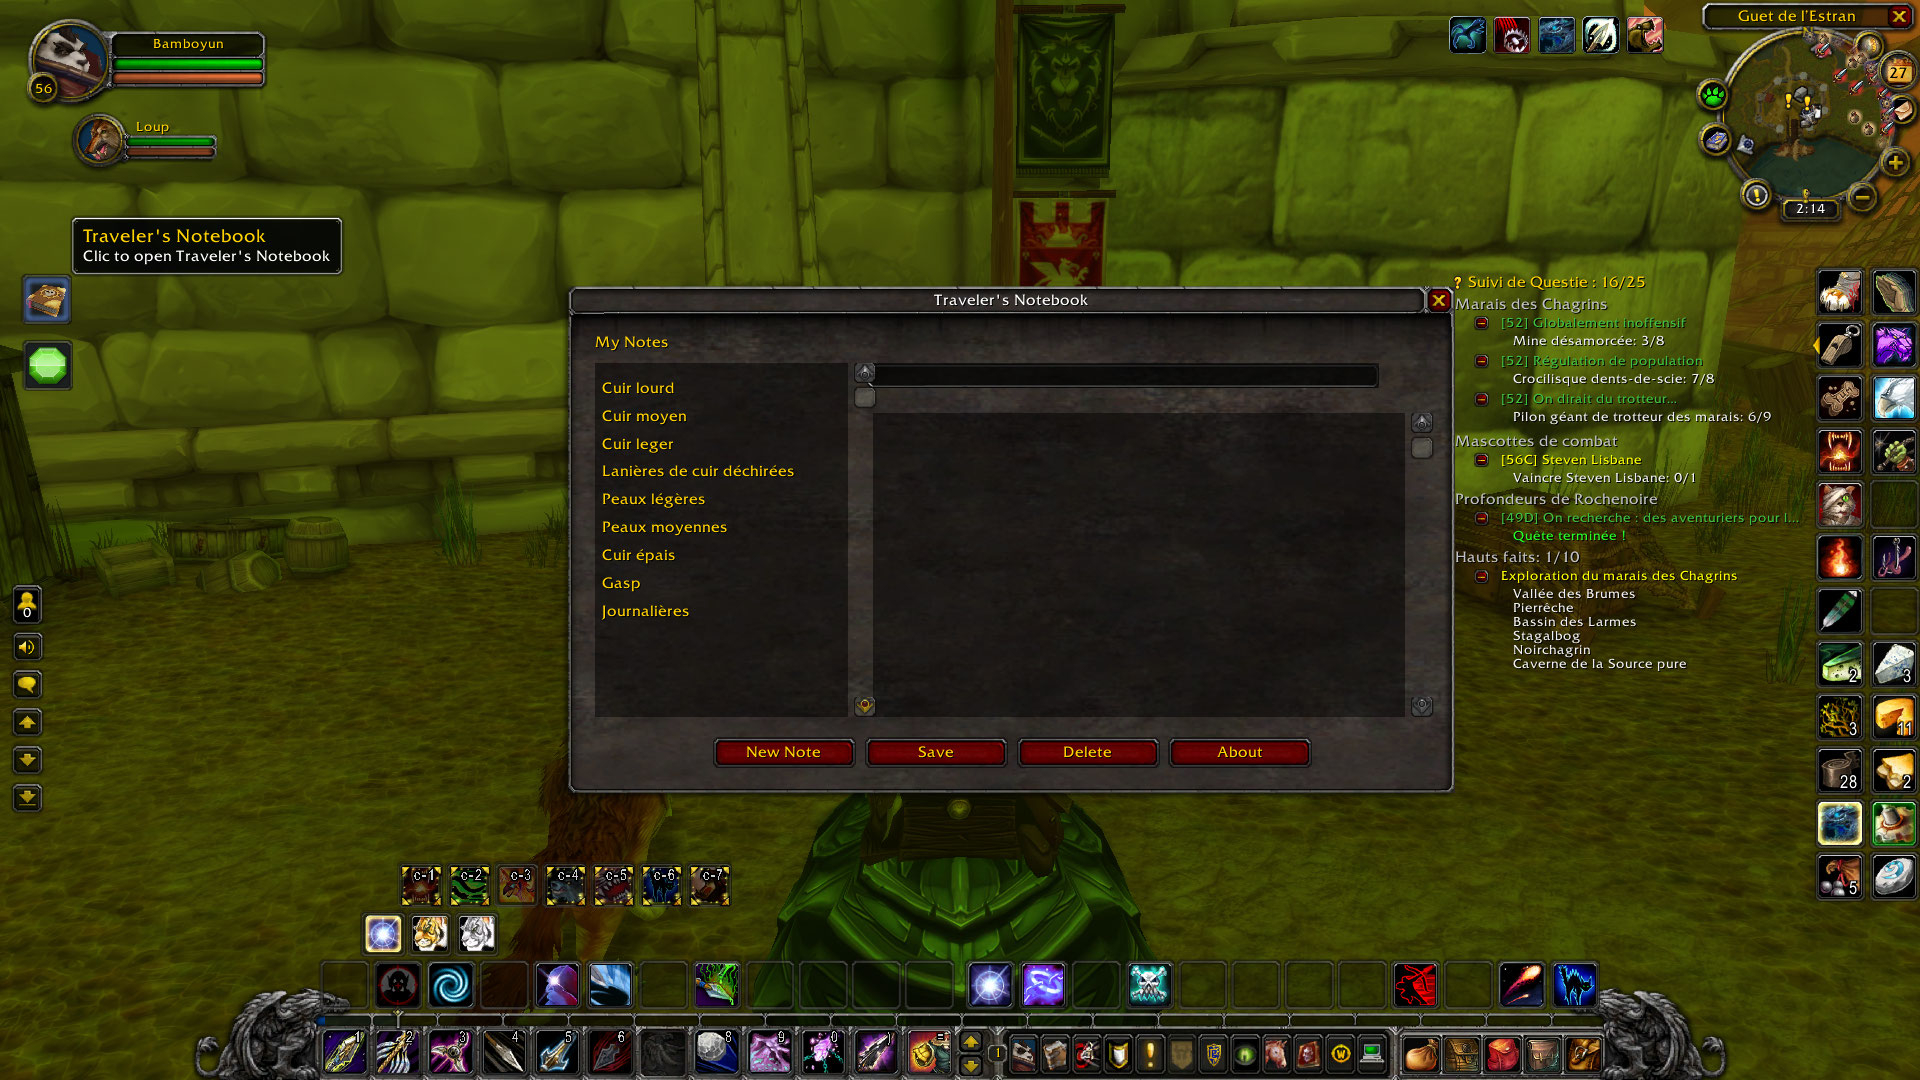
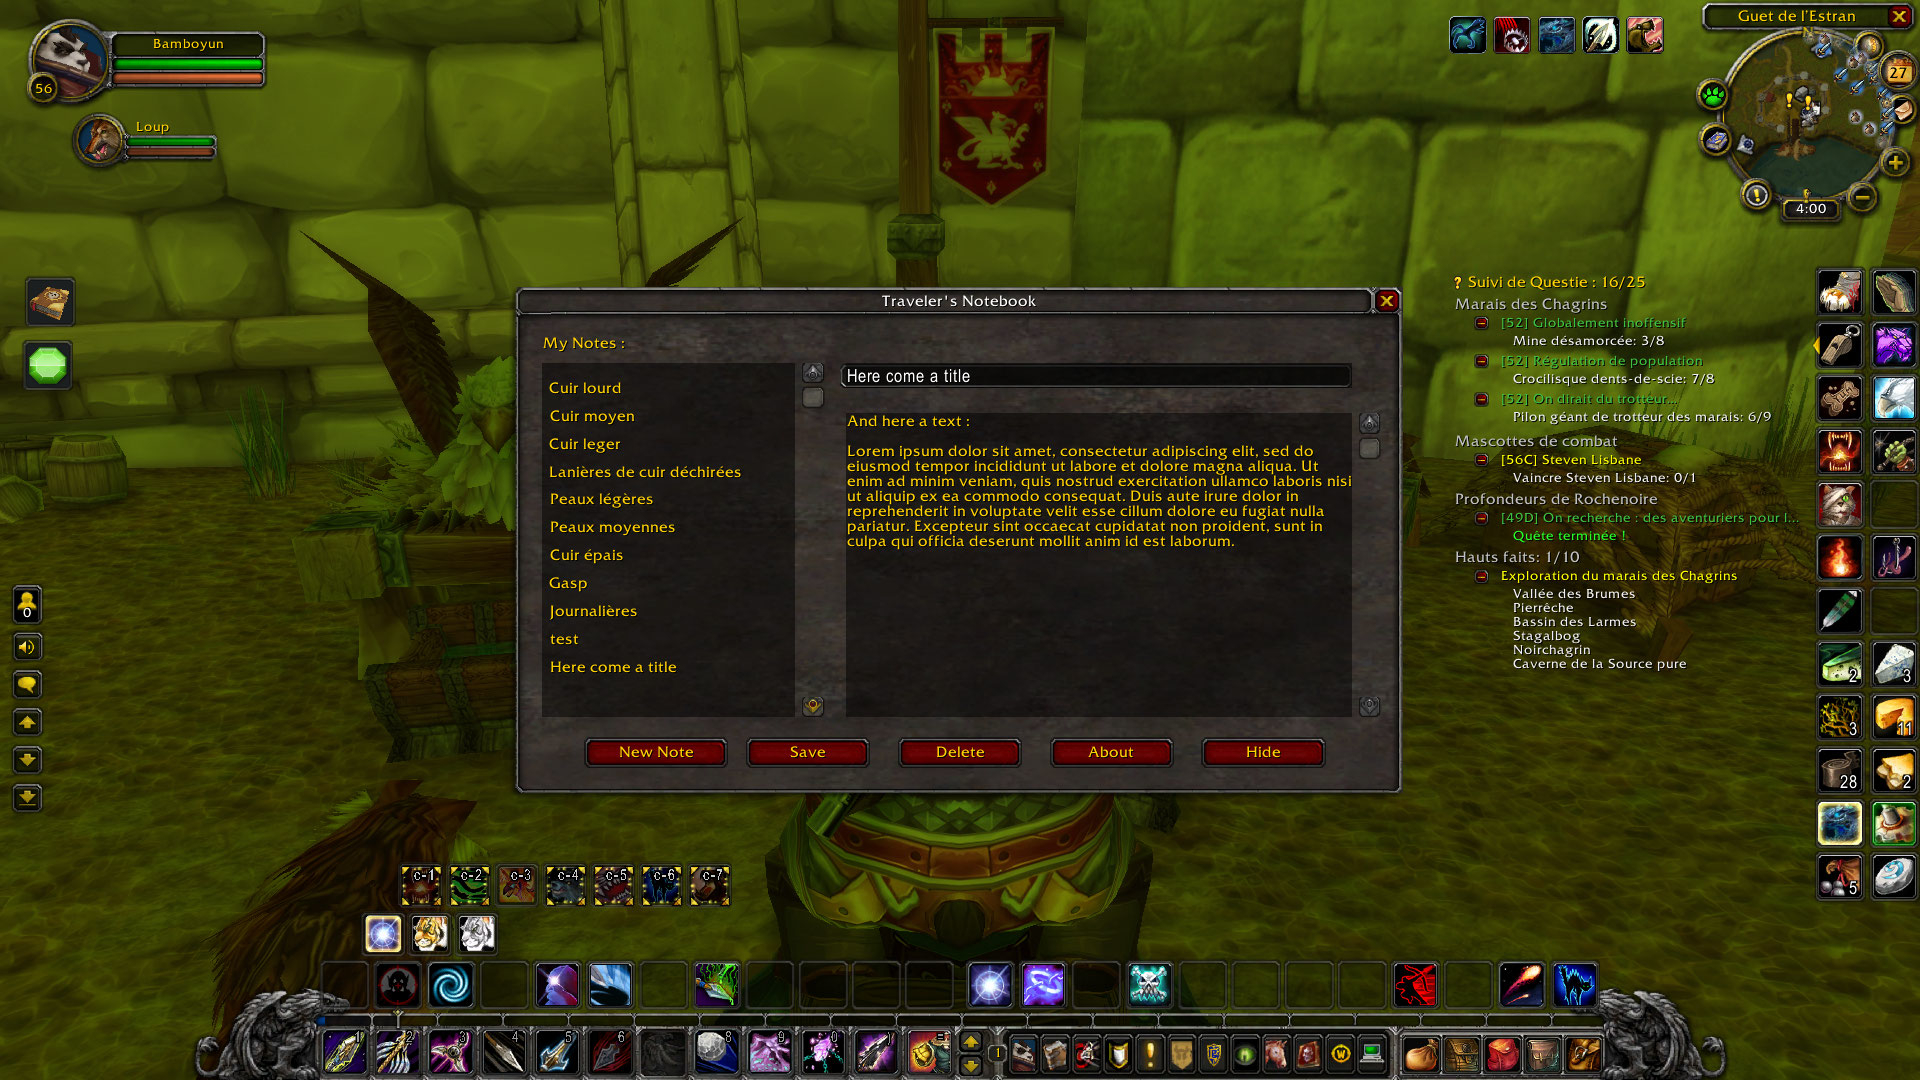
add hide button in Traveler's Notebook

diff --git a/TravelersNotebook/CHANGELOG.md b/TravelersNotebook/CHANGELOG.md
@@ -26,13 +26,12 @@
 
 ---
 
-## v0.0.4 — July 23, 2026
+## v0.0.4 — July 27, 2026
 - code review
 - GUI
 
 ---
 
-## TODO
+## v0.0.5 — July 27, 2026
 - Hide button
-
-interface/adventuremap/adventuremapparchmenttile.blp
+- update "Notes" in toc file

diff --git a/GaspOfPandaria/CHANGELOG.md b/GaspOfPandaria/CHANGELOG.md
@@ -168,3 +168,6 @@ All notable changes to the project are documented here.
 - Nouveau texte pour l'affichage du record
 
 ---
+
+## v0.13.1 — Work in progress
+- update "Notes" in toc file
